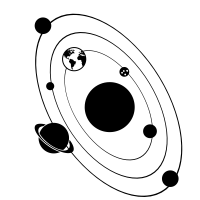
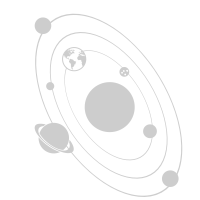
inverted black images and fixed font colour for resume link

diff --git a/index.html b/index.html
@@ -90,7 +90,7 @@
             <div class="contact-info">
               <p class="contact-title">Phone</p>
 
-              <a class="contact-link">+1 (626) 379-4271</a>
+              <a class="contact-link"> </a> <!-- +1 (626) 379-4271</a> -->
             </div>
 
           </li>
@@ -499,7 +499,7 @@
             </header>
             <section class="about-text">
                 <a href="./assets/images/resume_susan_redmond.pdf">
-                    <p>
+                    <p style="color: lightblue">
                         PDF available here.
                     </p>
                 </a>
